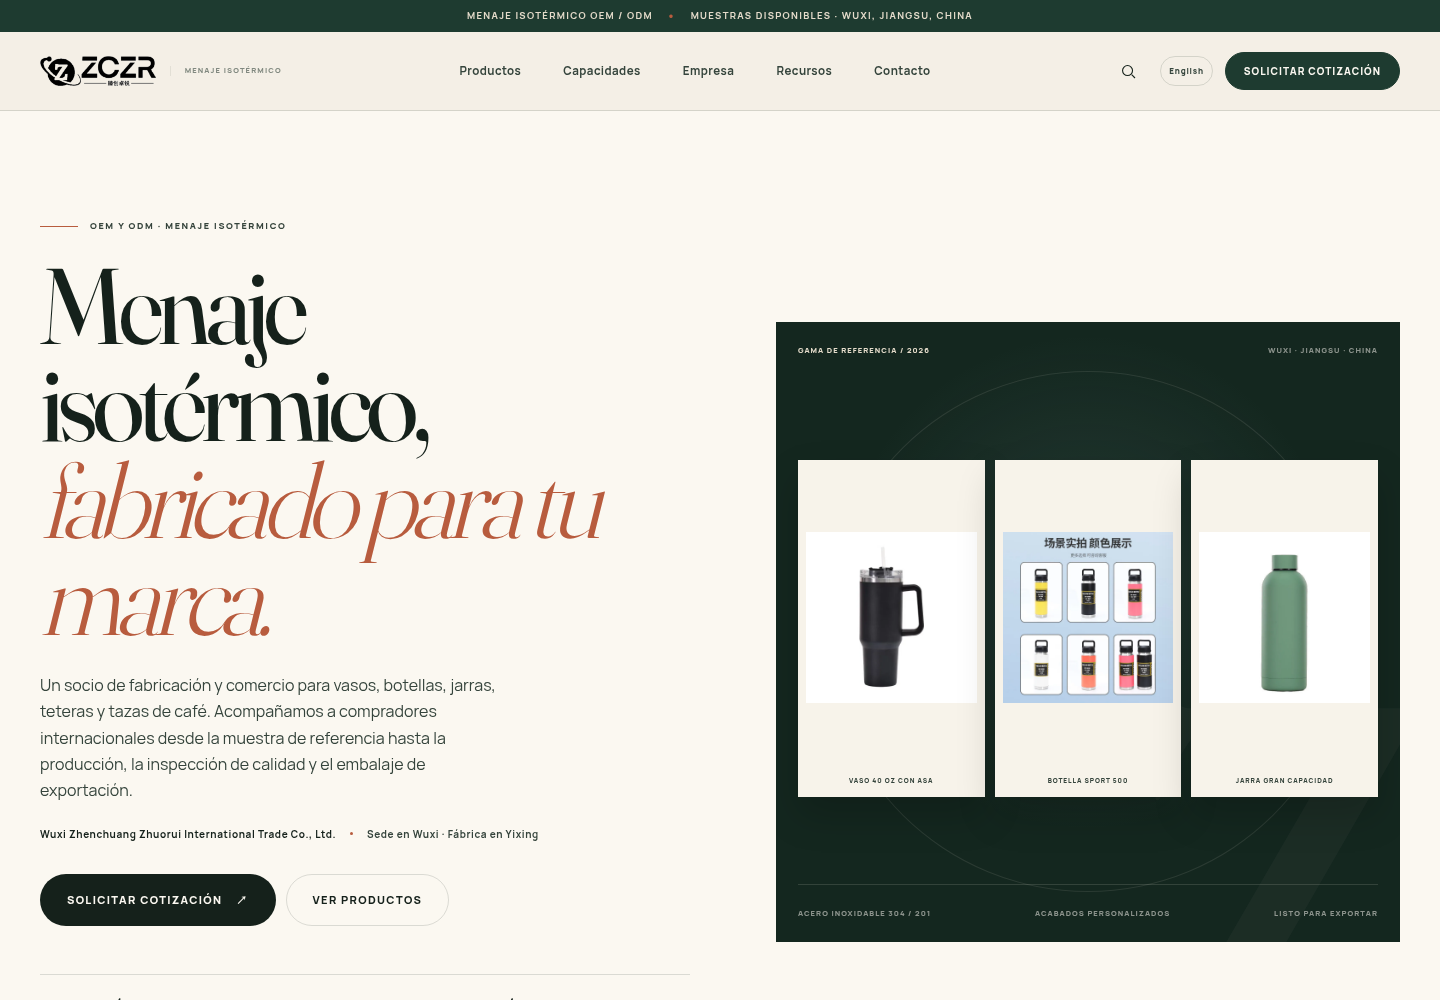
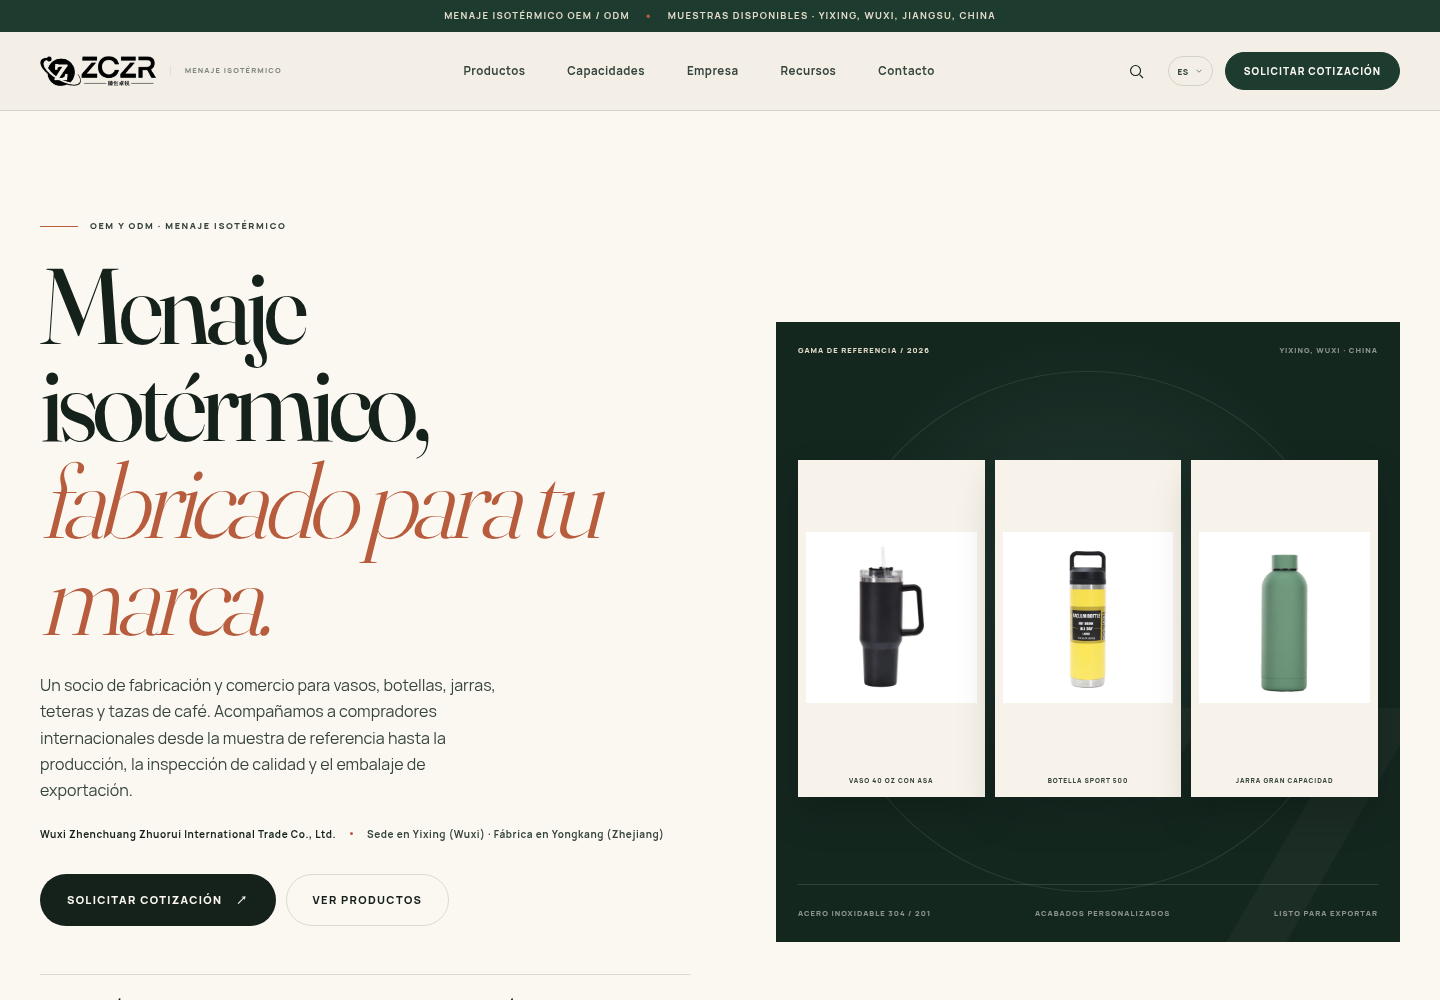
Correct headquarters and factory locations

diff --git a/src/i18n/ui.ts b/src/i18n/ui.ts
@@ -120,7 +120,7 @@ export const ui: Record<Lang, Dictionary> = {
       closeSearch: 'Close search',
       mobileNav: 'Mobile navigation',
     },
-    announcement: { one: 'OEM / ODM insulated drinkware', two: 'Samples available · Wuxi, Jiangsu, China' },
+    announcement: { one: 'OEM / ODM insulated drinkware', two: 'Samples available · Yixing, Wuxi, Jiangsu, China' },
     card: { quote: 'Quote on request', oem: 'OEM / ODM', view: 'View' },
     newsletter: {
       eyebrow: 'Buyer briefing',
@@ -133,7 +133,7 @@ export const ui: Record<Lang, Dictionary> = {
     },
     footer: {
       description: 'Wuxi Zhenchuang Zhuorui International Trade Co., Ltd. is a manufacturing and trading company focused on insulated stainless-steel drinkware for global buyers.',
-      locations: ['Wuxi office', 'Yixing factory', 'Jiangsu, China'],
+      locations: ['Yixing headquarters', 'Yongkang factory', 'Zhejiang, China'],
       drinkware: 'Drinkware',
       allModels: 'All models',
       tumblers: 'Tumblers',
@@ -181,7 +181,7 @@ export const ui: Record<Lang, Dictionary> = {
       closeSearch: 'Cerrar búsqueda',
       mobileNav: 'Navegación móvil',
     },
-    announcement: { one: 'Menaje isotérmico OEM / ODM', two: 'Muestras disponibles · Wuxi, Jiangsu, China' },
+    announcement: { one: 'Menaje isotérmico OEM / ODM', two: 'Muestras disponibles · Yixing, Wuxi, Jiangsu, China' },
     card: { quote: 'Cotización bajo pedido', oem: 'OEM / ODM', view: 'Ver' },
     newsletter: {
       eyebrow: 'Información para compradores',
@@ -194,7 +194,7 @@ export const ui: Record<Lang, Dictionary> = {
     },
     footer: {
       description: 'Wuxi Zhenchuang Zhuorui International Trade Co., Ltd. es una empresa manufacturera y comercial centrada en menaje isotérmico de acero inoxidable para compradores internacionales.',
-      locations: ['Oficina de Wuxi', 'Fábrica de Yixing', 'Jiangsu, China'],
+      locations: ['Sede de Yixing', 'Fábrica de Yongkang', 'Zhejiang, China'],
       drinkware: 'Menaje',
       allModels: 'Todos los modelos',
       tumblers: 'Vasos',
@@ -242,7 +242,7 @@ export const ui: Record<Lang, Dictionary> = {
       closeSearch: 'Fermer la recherche',
       mobileNav: 'Navigation mobile',
     },
-    announcement: { one: 'Gobelets isothermes OEM / ODM', two: 'Échantillons disponibles · Wuxi, Jiangsu, Chine' },
+    announcement: { one: 'Gobelets isothermes OEM / ODM', two: 'Échantillons disponibles · Yixing, Wuxi, Jiangsu, Chine' },
     card: { quote: 'Devis sur demande', oem: 'OEM / ODM', view: 'Voir' },
     newsletter: {
       eyebrow: 'Brief acheteur',
@@ -255,7 +255,7 @@ export const ui: Record<Lang, Dictionary> = {
     },
     footer: {
       description: "Wuxi Zhenchuang Zhuorui International Trade Co., Ltd. est une entreprise de fabrication et de négoce spécialisée dans les gobelets isothermes en acier inoxydable pour les acheteurs internationaux.",
-      locations: ['Bureau de Wuxi', 'Usine de Yixing', 'Jiangsu, Chine'],
+      locations: ['Siège de Yixing', 'Usine de Yongkang', 'Zhejiang, Chine'],
       drinkware: 'Gobelets',
       allModels: 'Tous les modèles',
       tumblers: 'Gobelets',
@@ -303,7 +303,7 @@ export const ui: Record<Lang, Dictionary> = {
       closeSearch: '关闭搜索',
       mobileNav: '移动端导航',
     },
-    announcement: { one: 'OEM / ODM 保温饮具', two: '可提供样品 · 中国江苏无锡' },
+    announcement: { one: 'OEM / ODM 保温饮具', two: '可提供样品 · 中国江苏无锡宜兴' },
     card: { quote: '按需报价', oem: 'OEM / ODM', view: '查看' },
     newsletter: {
       eyebrow: '采购简报',
@@ -316,7 +316,7 @@ export const ui: Record<Lang, Dictionary> = {
     },
     footer: {
       description: '无锡臻创卓锐国际贸易有限公司是一家专注于不锈钢保温饮具的工贸企业，为全球采购商提供产品与服务。',
-      locations: ['无锡办公室', '宜兴工厂', '中国江苏'],
+      locations: ['无锡宜兴总部', '浙江永康工厂', '中国浙江'],
       drinkware: '饮具',
       allModels: '全部型号',
       tumblers: '保温杯',

diff --git a/README.md b/README.md
@@ -131,8 +131,8 @@ The following facts come from the supplied company text/FAQ and are used in the 
 
 - Legal name: Wuxi Zhenchuang Zhuorui International Trade Co., Ltd.
 - Chinese name: 无锡臻创卓锐国际贸易有限公司
-- Head office: Wuxi, Jiangsu, China
-- Factory: Yixing, Jiangsu
+- Head office: Yixing, Wuxi, Jiangsu, China
+- Factory: Yongkang, Zhejiang
 - Business model: manufacturing and trading company integrating production, sales and export
 - Customization: OEM accepted
 - Samples: available; sample cost and freight confirmed
